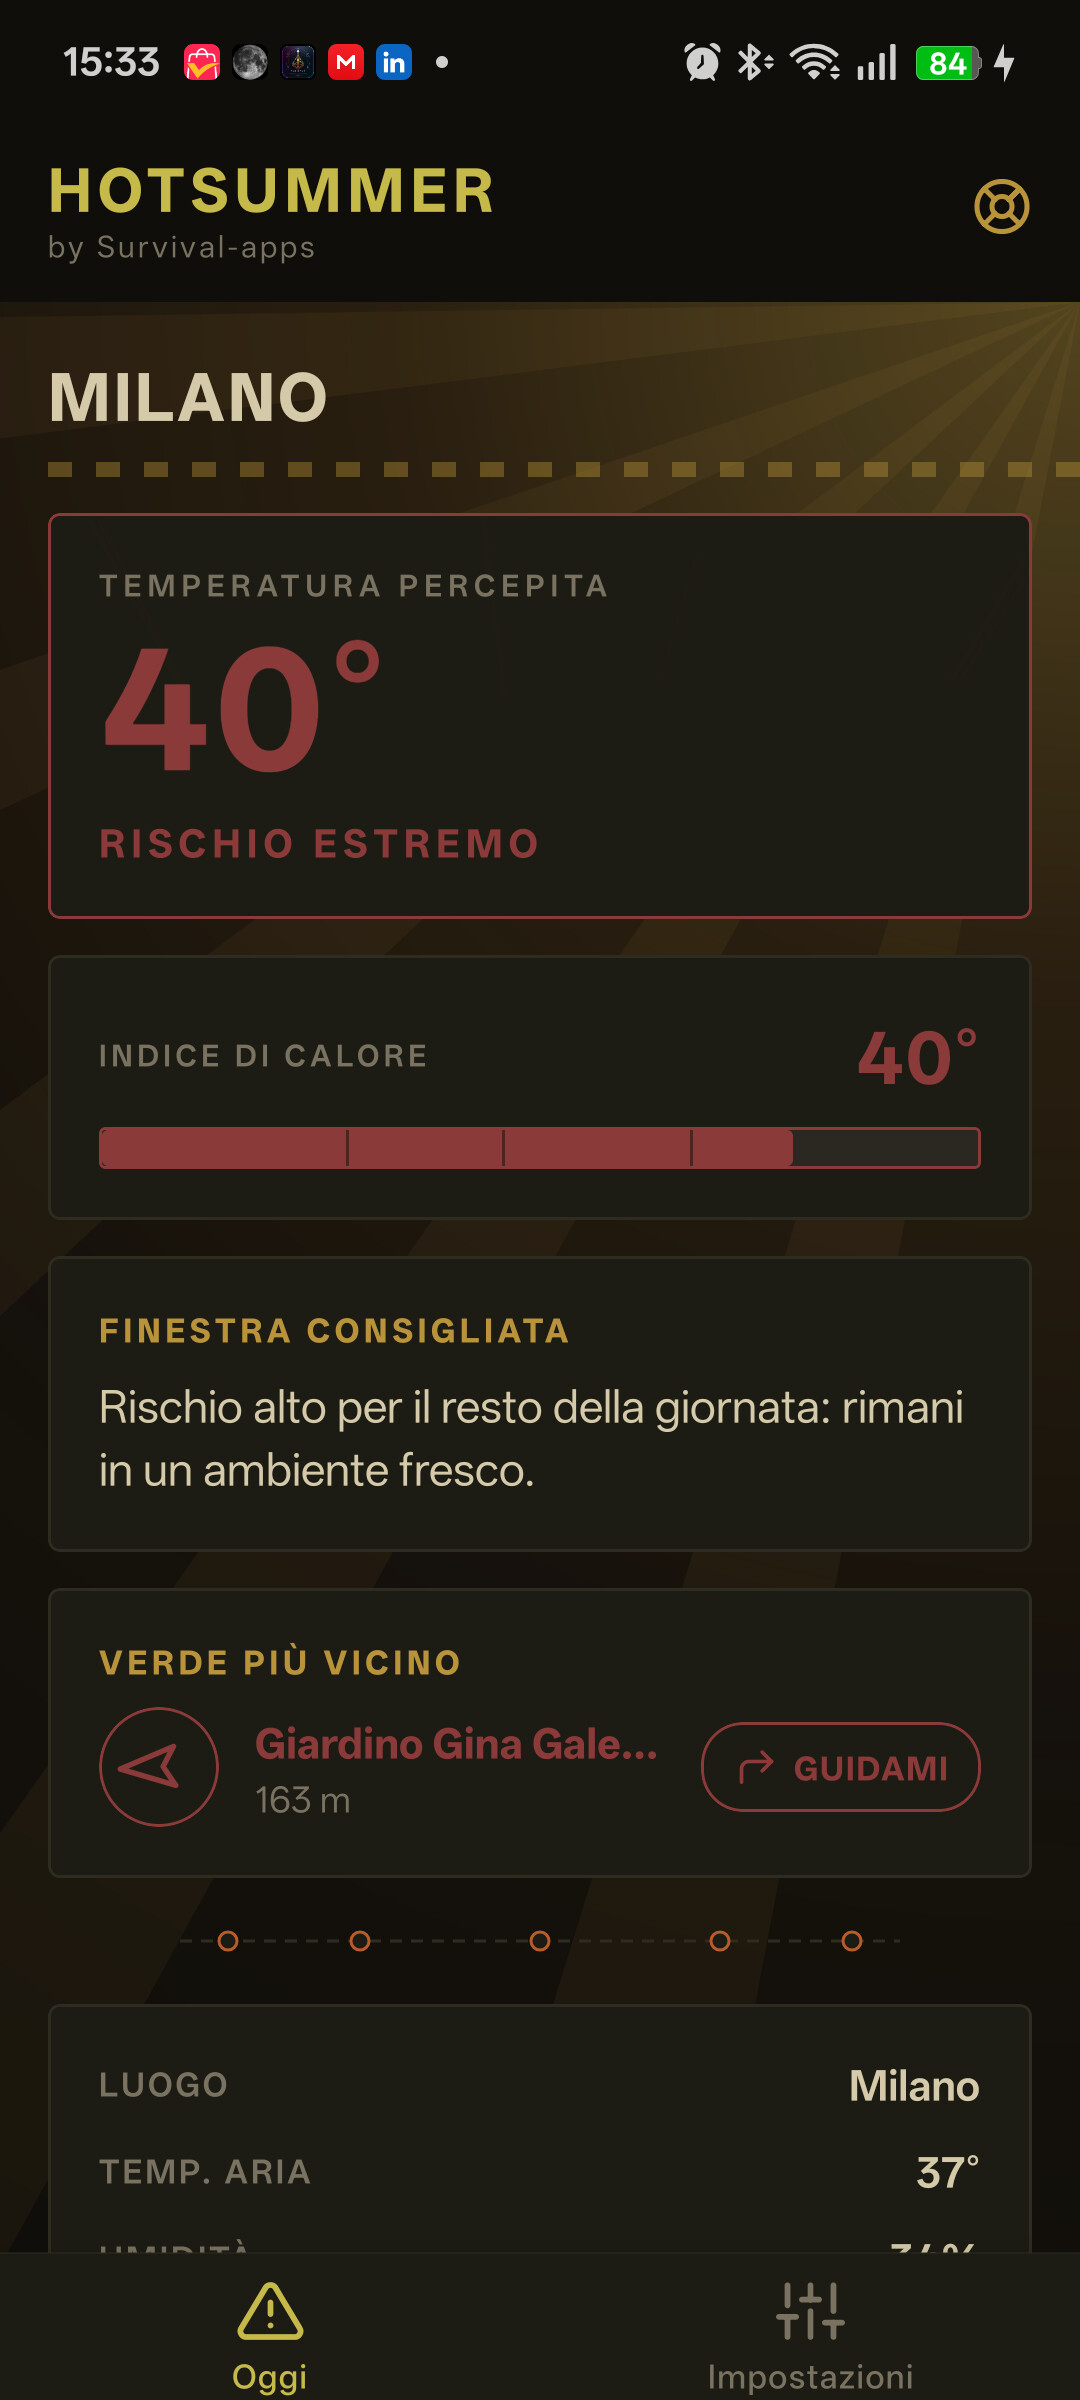
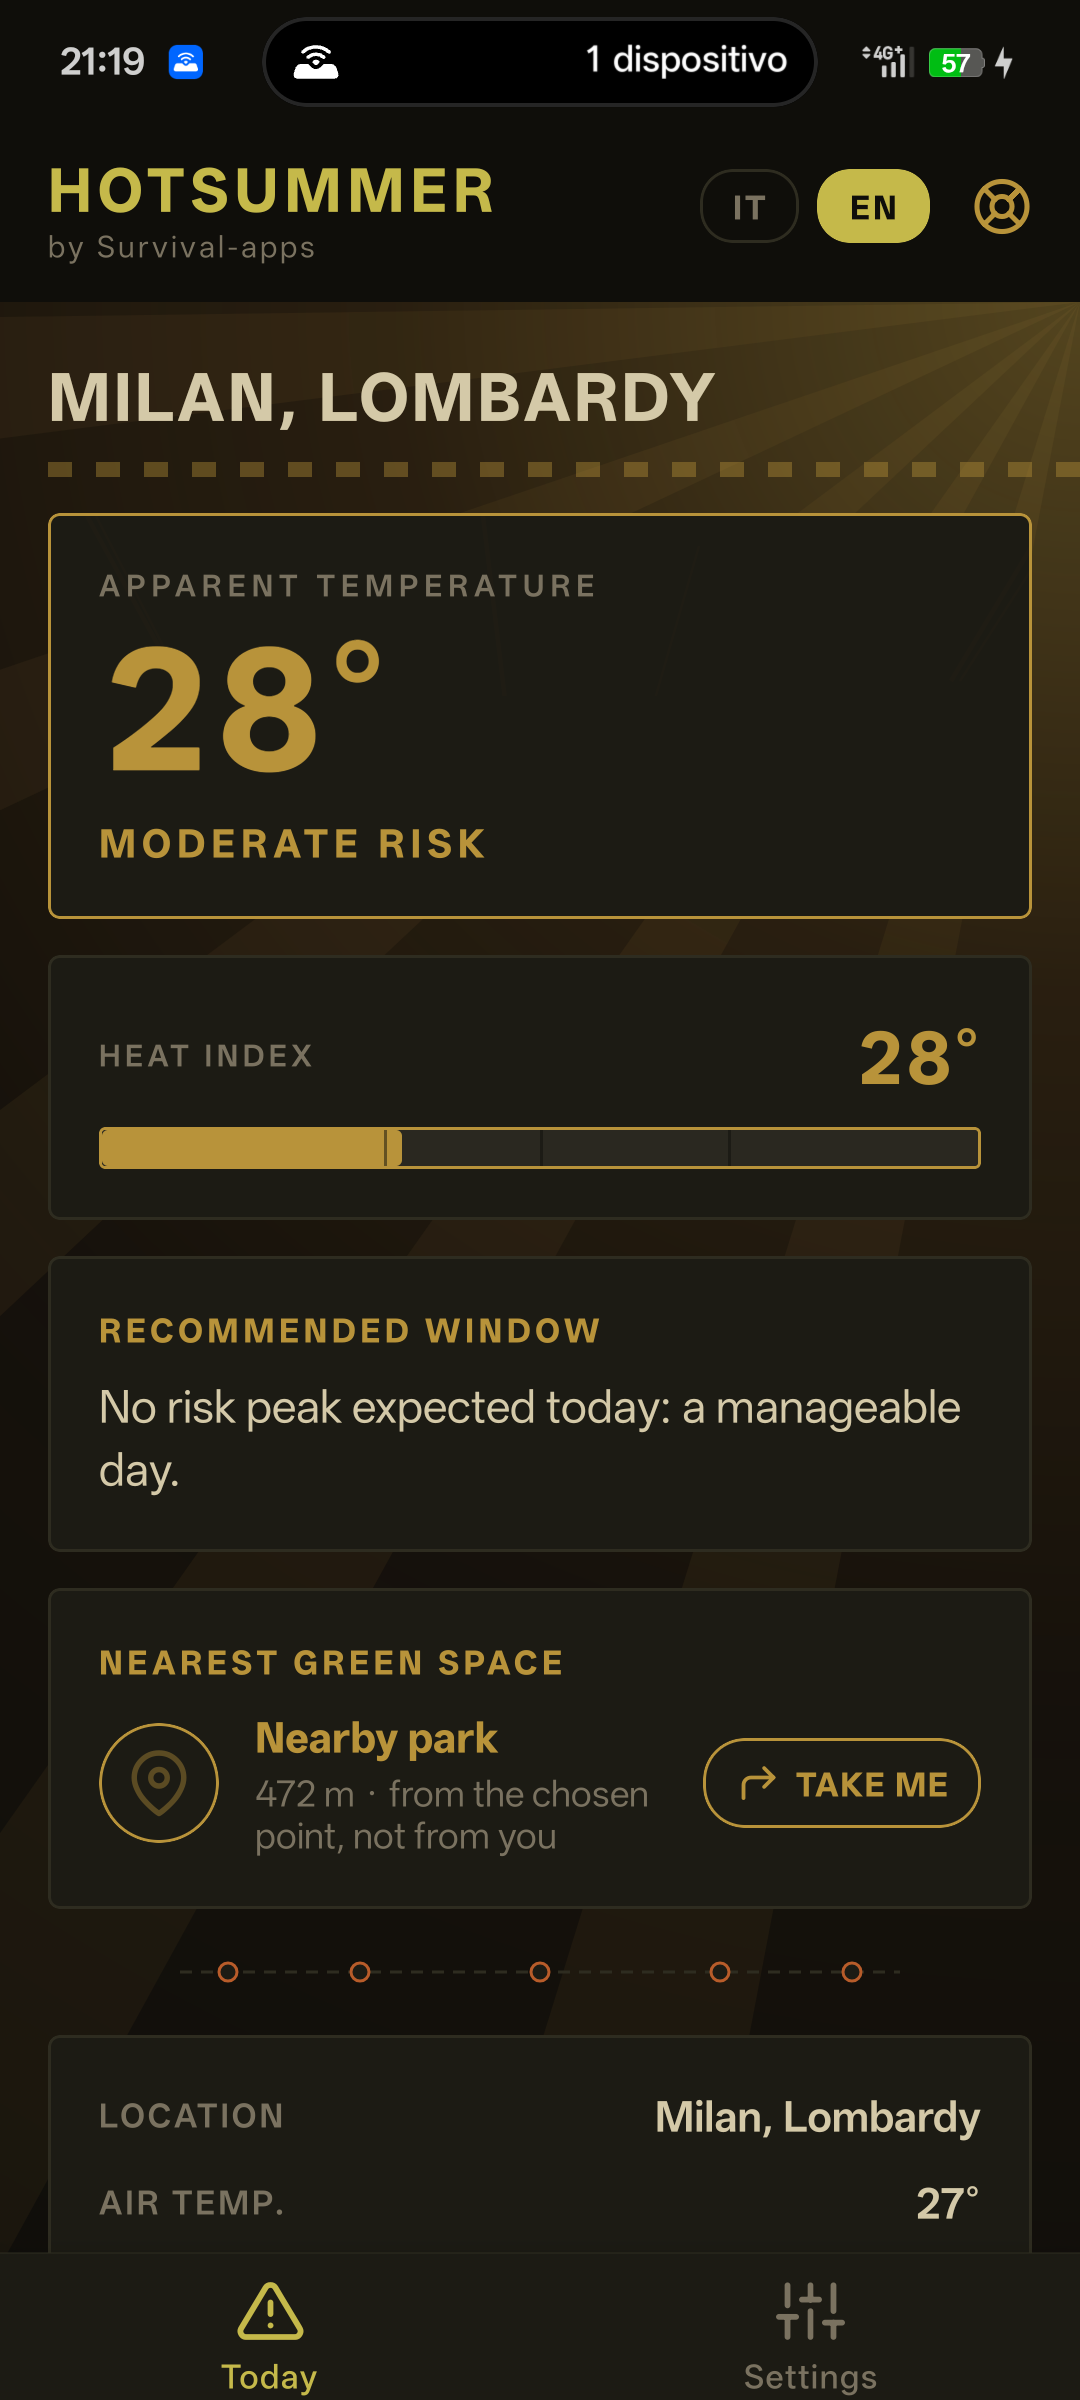
Replace HotSummer screenshots with English UI captures
Original screenshots were Italian-only. New captures use a searched
city (not real GPS location) and stop before the risk-profile fields
to avoid exposing personal data.

diff --git a/hotsummer/index.html b/hotsummer/index.html
@@ -93,8 +93,8 @@
   <div class="wrap">
     <h2>Screenshots</h2>
     <div class="shots">
-      <figure><img src="images/hotsummer1.jpg" alt="HotSummer home screen showing extreme risk level and nearest green space" loading="lazy"><figcaption>Home — risk, safe window and nearest green space</figcaption></figure>
-      <figure><img src="images/hotsummer2.jpg" alt="HotSummer settings screen with the optional risk profile" loading="lazy"><figcaption>Settings — the optional risk profile</figcaption></figure>
+      <figure><img src="images/hotsummer1.jpg" alt="HotSummer home screen showing risk level and nearest green space" loading="lazy"><figcaption>Home — risk index, safe window and nearest green space</figcaption></figure>
+      <figure><img src="images/hotsummer2.jpg" alt="HotSummer settings screen with location options" loading="lazy"><figcaption>Settings — GPS, search, or a point on the map</figcaption></figure>
       <figure><img src="images/hotsummer3.jpg" alt="HotSummer heatstroke remedies screen" loading="lazy"><figcaption>Remedies — always one tap away, even offline</figcaption></figure>
     </div>
   </div>
